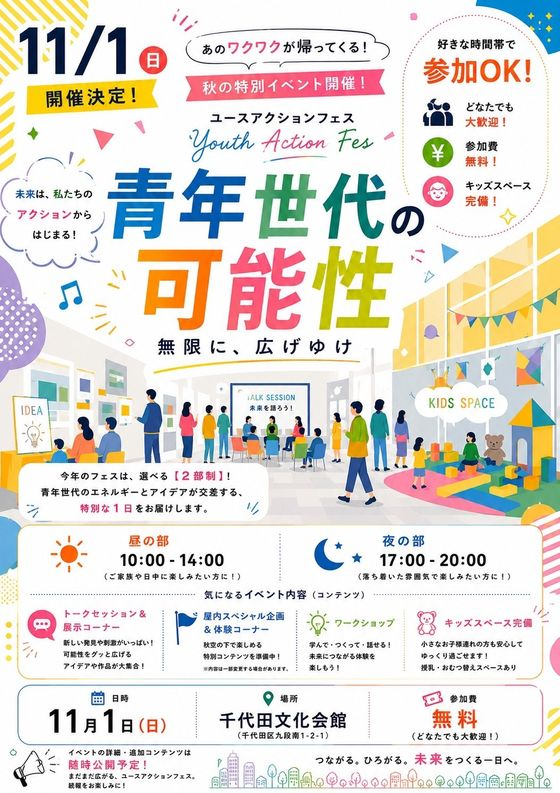
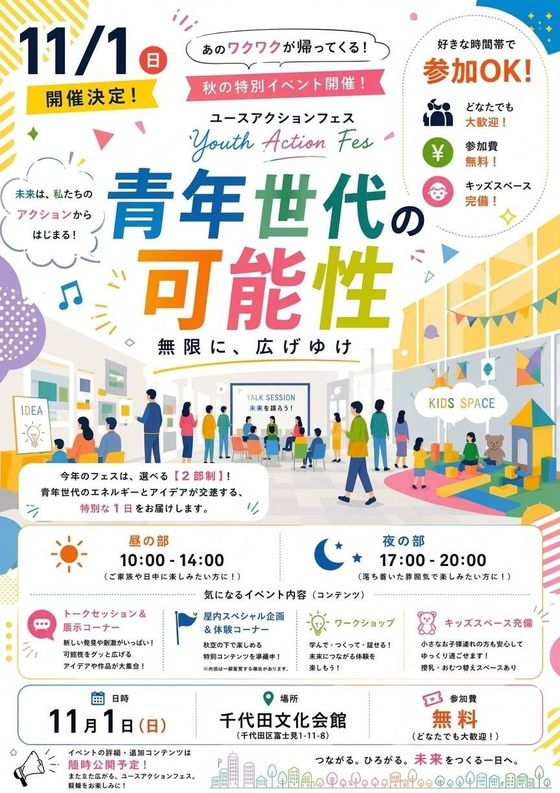
本番: 千代田の住所を富士見1-11-8に戻し、修正版フライヤーに差し替え (#157)
総区より、前回のフライヤー記載住所（千代田区九段南）が誤りとの連絡。
修正版フライヤーに差し替え、住所も富士見1-11-8に戻した。

Claude-Session: https://claude.ai/code/session_019FcYnFDKiXGD6cxZrKsGk2

diff --git a/index.html b/index.html
@@ -5714,7 +5714,7 @@
         { label: '夜の部', dateLabel: '2026年11月1日(日)', timeLabel: '17:00〜20:00' }
       ],
       venue: '創価学会 千代田文化会館',
-      address: '東京都千代田区九段南1-2-1',
+      address: '東京都千代田区富士見1-11-8',
       kidsSpace: 'あり',
       allowExternal: false,
       flyer: 'assets/chiyoda-flyer-sm.jpg',
